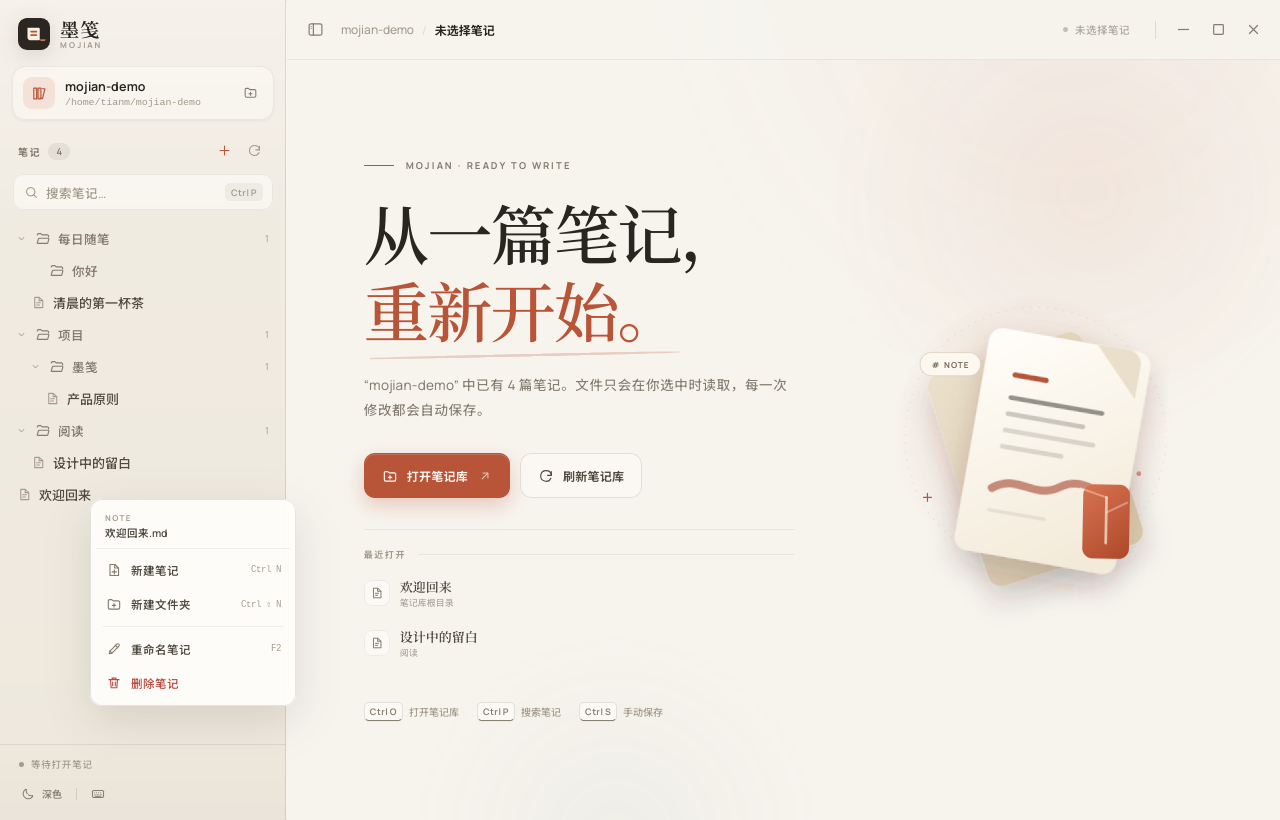
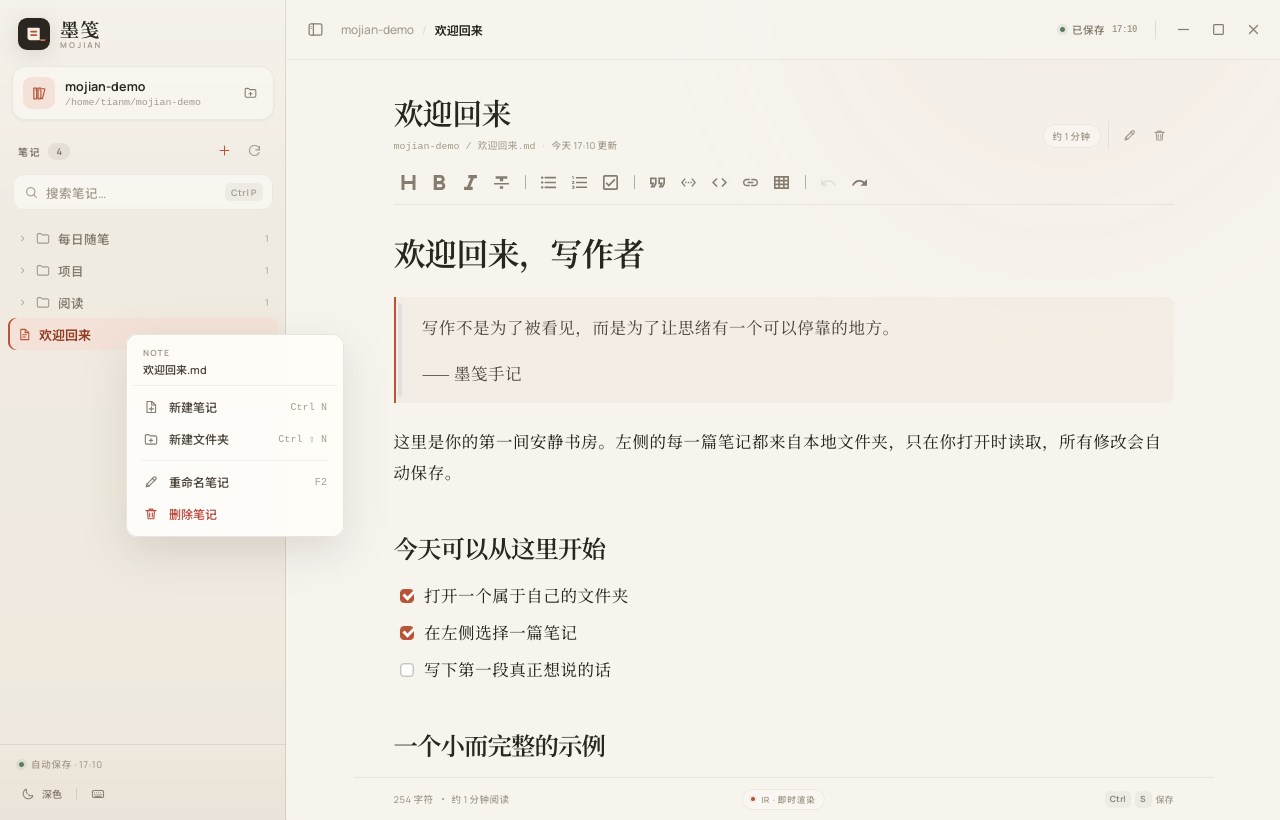
docs: document context menus and refresh screenshots
- add a right-click menu section with clipboard and scope details
- update feature list, usage steps, architecture and security notes
- refresh library menus and add an editor context-menu screenshot

diff --git a/README.md b/README.md
@@ -21,6 +21,7 @@
 - **离开也不丢字**：切换笔记、刷新笔记库、窗口失焦与关闭窗口前都会按编辑器当前值强制保存；保存失败时窗口不会关闭。
 - **安全文件操作**：工作区状态保存在 Rust 端；所有读写、新建、重命名与删除都经过规范化、工作区后代校验与符号链接逃逸防护。保存采用同目录临时文件 + 原子重命名。
 - **无边框自绘窗口**：禁用系统标题栏与窗口边框，只保留软件界面；拖动顶部空白区域可移动窗口，右上角提供最小化、最大化 / 还原、关闭。关闭前仍会先完成保存。
+- **自绘右键菜单**：编辑区右键提供撤销、重做、剪切、复制、粘贴、粘贴为纯文本与全选；笔记目录右键保留原有管理操作。系统与 WebView 默认菜单在窗口内全部禁用。
 - **安静的界面**：温暖纸张色、朱砂强调色、Noto Serif 正文、可折叠文件夹树、搜索过滤、最近打开、深浅双主题。
 - **完全离线**：Vditor 的 Lute 解析器、图标、代码高亮、主题 CSS 与中文字体均随应用打包，不请求 CDN。
 - **原生桌面体验**：Tauri 2 窗口、系统文件夹选择器、外部链接交给系统浏览器、退出前保存保护。
@@ -40,6 +41,20 @@
 - **删除笔记**：文档头垃圾桶按钮，或笔记右键菜单。确认后永久删除；如果正在编辑该笔记，删除前会先完成保存，随后关闭编辑区。
 
 新建位置会优先跟随当前笔记所在文件夹；右键文件夹则直接在该文件夹内创建。名称会经过校验，不能包含路径分隔符、隐藏前缀或系统保留名，也不会覆盖同名文件。
+
+## 右键菜单
+
+墨笺接管了整个窗口的右键菜单，不再弹出 WebKit 或操作系统的原生菜单：
+
+- **编辑区与输入框**：使用墨笺自绘菜单，提供撤销 / 重做、剪切、复制、粘贴、粘贴为纯文本与全选，并标注对应快捷键。粘贴项会在检测到剪贴板有文本后自动变为可用。
+- **笔记目录**：菜单内容与原有行为保持一致——新建笔记、新建文件夹，以及笔记的重命名与删除；只是视觉样式与编辑区菜单统一。
+- **其他区域**：禁用右键菜单。顶栏、文档头部、空白背景等没有可用操作的位置不会弹出任何菜单。
+
+<p align="center">
+  <img src="docs/screenshots/editor-context-menu.png" width="72%" alt="编辑区自绘右键菜单" />
+</p>
+
+“粘贴”会按 Markdown 解释剪贴板文本；“粘贴为纯文本”会转义 Markdown 语法，保留 `*`、`#`、`<` 等字符的字面形式。剪贴板读写由 Tauri 的 `clipboard-manager` 插件完成，仅授予读取和写入纯文本的最小权限。
 
 ## 快速开始
 
@@ -83,9 +98,10 @@ cargo test
 3. 在左侧文件夹树中选择一篇笔记，正文随即载入 Vditor。
 4. 直接写作。右上角状态会依次显示“待保存 → 正在保存 → 已保存”，并记录保存时间。
 5. 使用文档头部的铅笔 / 垃圾桶按钮或 `F2` 管理当前笔记。
-6. 使用搜索框或 `Ctrl/⌘ + P` 按文件名与相对路径筛选笔记。
-7. 点击侧边栏底部的主题按钮或按 `Ctrl/⌘ + ⇧ + L`，在浅色 / 深色间切换；主题和上次打开的笔记库会保留。
-8. 拖动顶部栏空白处可移动窗口；右上角按钮控制最小化、最大化 / 还原与关闭。
+6. 在编辑区右键可撤销、重做、剪切、复制、粘贴、粘贴为纯文本或全选；在笔记目录右键可执行笔记库操作。
+7. 使用搜索框或 `Ctrl/⌘ + P` 按文件名与相对路径筛选笔记。
+8. 点击侧边栏底部的主题按钮或按 `Ctrl/⌘ + ⇧ + L`，在浅色 / 深色间切换；主题和上次打开的笔记库会保留。
+9. 拖动顶部栏空白处可移动窗口；右上角按钮控制最小化、最大化 / 还原与关闭。
 
 | 快捷键 | 功能 |
 | --- | --- |
@@ -112,6 +128,7 @@ cargo test
 │   ├── styles.css                # 设计令牌、布局、Vditor 外观、主题
 │   └── lib/
 │       ├── api.ts                # Tauri command 类型化封装
+│       ├── clipboard.ts          # 系统剪贴板纯文本读写（Tauri 插件 / Web API 回退）
 │       ├── editor.ts             # Vditor IR 配置与主题同步
 │       ├── file-tree.ts          # 笔记 + 文件夹路径 → 文件夹树 / 搜索
 │       ├── format.ts             # 时间、字数、阅读时长
@@ -121,7 +138,7 @@ cargo test
 │   ├── src/workspace.rs          # 文件夹校验、递归扫描、笔记 / 文件夹列表
 │   ├── src/security.rs           # 路径 / 名称校验、工作区后代 / 符号链接防护
 │   ├── src/notes.rs              # 读取、原子保存、新建、重命名与删除
-│   ├── capabilities/default.json # 最小化插件权限
+│   ├── capabilities/default.json # 窗口、目录与纯文本剪贴板的最小权限
 │   └── tauri.conf.json
 ├── scripts/sync-vditor-assets.mjs # 将 Vditor 离线运行时资源同步到 public/
 └── docs/screenshots/
@@ -151,6 +168,7 @@ cargo test
 - 扫描不跟随符号链接；跳过隐藏项以及 `node_modules`、`target`、`dist`、`build` 等常见噪声目录。
 - 保存：同目录隐藏临时文件 → 写入 → 保留原权限 → `sync_all` → 原子重命名；失败时清理临时文件。
 - 新建采用 `create_new` 且不覆盖已有文件；重命名只在同一目录内进行并拒绝已存在的目标；删除只接受已解析的工作区 Markdown 文件。
+- 剪贴板只在用户打开自绘菜单时通过 `clipboard-manager` 读取或写入纯文本；capability 仅授予 `allow-read-text` 与 `allow-write-text`，不启用图片、HTML 或系统剪贴板监听。
 
 ### 自动保存策略
 
@@ -172,7 +190,7 @@ cargo test
 2. **安全文件层** —— Rust 工作区状态、递归扫描、路径校验、按需读取、原子保存与单元测试。
 3. **编辑体验** —— Vditor IR 单屏编辑器、工具栏、文件树、搜索、最近打开、字数统计与自动保存状态。
 4. **笔记库管理** —— 新建空文件夹与笔记、重命名、删除、上下文菜单、操作对话框，以及安全文件名校验。
-5. **集成与验收** —— 原生文件夹选择、无边框窗口控件与拖拽、自动保存写盘验证、删除 / 重命名 / 空文件夹验证、关闭按钮保存验证、深浅主题验收。
+5. **集成与验收** —— 原生文件夹选择、无边框窗口控件与拖拽、自绘右键菜单、自动保存写盘验证、删除 / 重命名 / 空文件夹验证、关闭按钮保存验证、深浅主题验收。
 6. **交付与文档** —— 离线资源同步、应用元数据、README、截图、Git 历史与 Debian 安装包。
 
 当前 Rust 测试共 **29 项**，覆盖路径穿越、符号链接逃逸、名称校验、不覆盖目标、重命名内容保留、删除边界、空文件夹扫描和 camelCase 负载。
@@ -185,10 +203,11 @@ cargo test
 - 为保持离线与轻量，当前未启用数学公式 / Mermaid 等重运行时渲染；代码高亮与完整 Markdown 排版可用。
 - 文件夹创建为单层且不支持重命名 / 删除文件夹；当前没有回收站，删除笔记不可撤销。
 - 仅支持 `.md` / `.markdown` 笔记文件；新建笔记固定以 `.md` 创建。
+- 右键菜单的“粘贴”读取剪贴板纯文本；从网页或文档复制的富文本、图片不会保留原有格式。
 
 ## 设计说明
 
-界面的核心是“纸感”而不是“后台面板感”：暖白纸张底色、极细分割线、朱砂色焦点、衬线正文，以及尽量退后的工具栏。深色主题使用墨色背景与更柔和的暖珊瑚色强调，保持夜间阅读的对比度而不刺眼。笔记库管理入口保持轻量：默认只看得到一颗朱砂色的 `+`，需要时再展开菜单或右键。窗口本身去掉系统边框，顶部栏只保留位置与保存状态，把最小化、最大化 / 还原、关闭放在右上角。
+界面的核心是“纸感”而不是“后台面板感”：暖白纸张底色、极细分割线、朱砂色焦点、衬线正文，以及尽量退后的工具栏。深色主题使用墨色背景与更柔和的暖珊瑚色强调，保持夜间阅读的对比度而不刺眼。笔记库管理入口保持轻量：默认只看得到一颗朱砂色的 `+`，需要时再展开菜单或右键。右键菜单使用同一套设计令牌，但收紧了行高与字号，让它更接近桌面原生菜单，而不是网页浮层。窗口本身去掉系统边框，顶部栏只保留位置与保存状态，把最小化、最大化 / 还原、关闭放在右上角。
 
 ---
 
